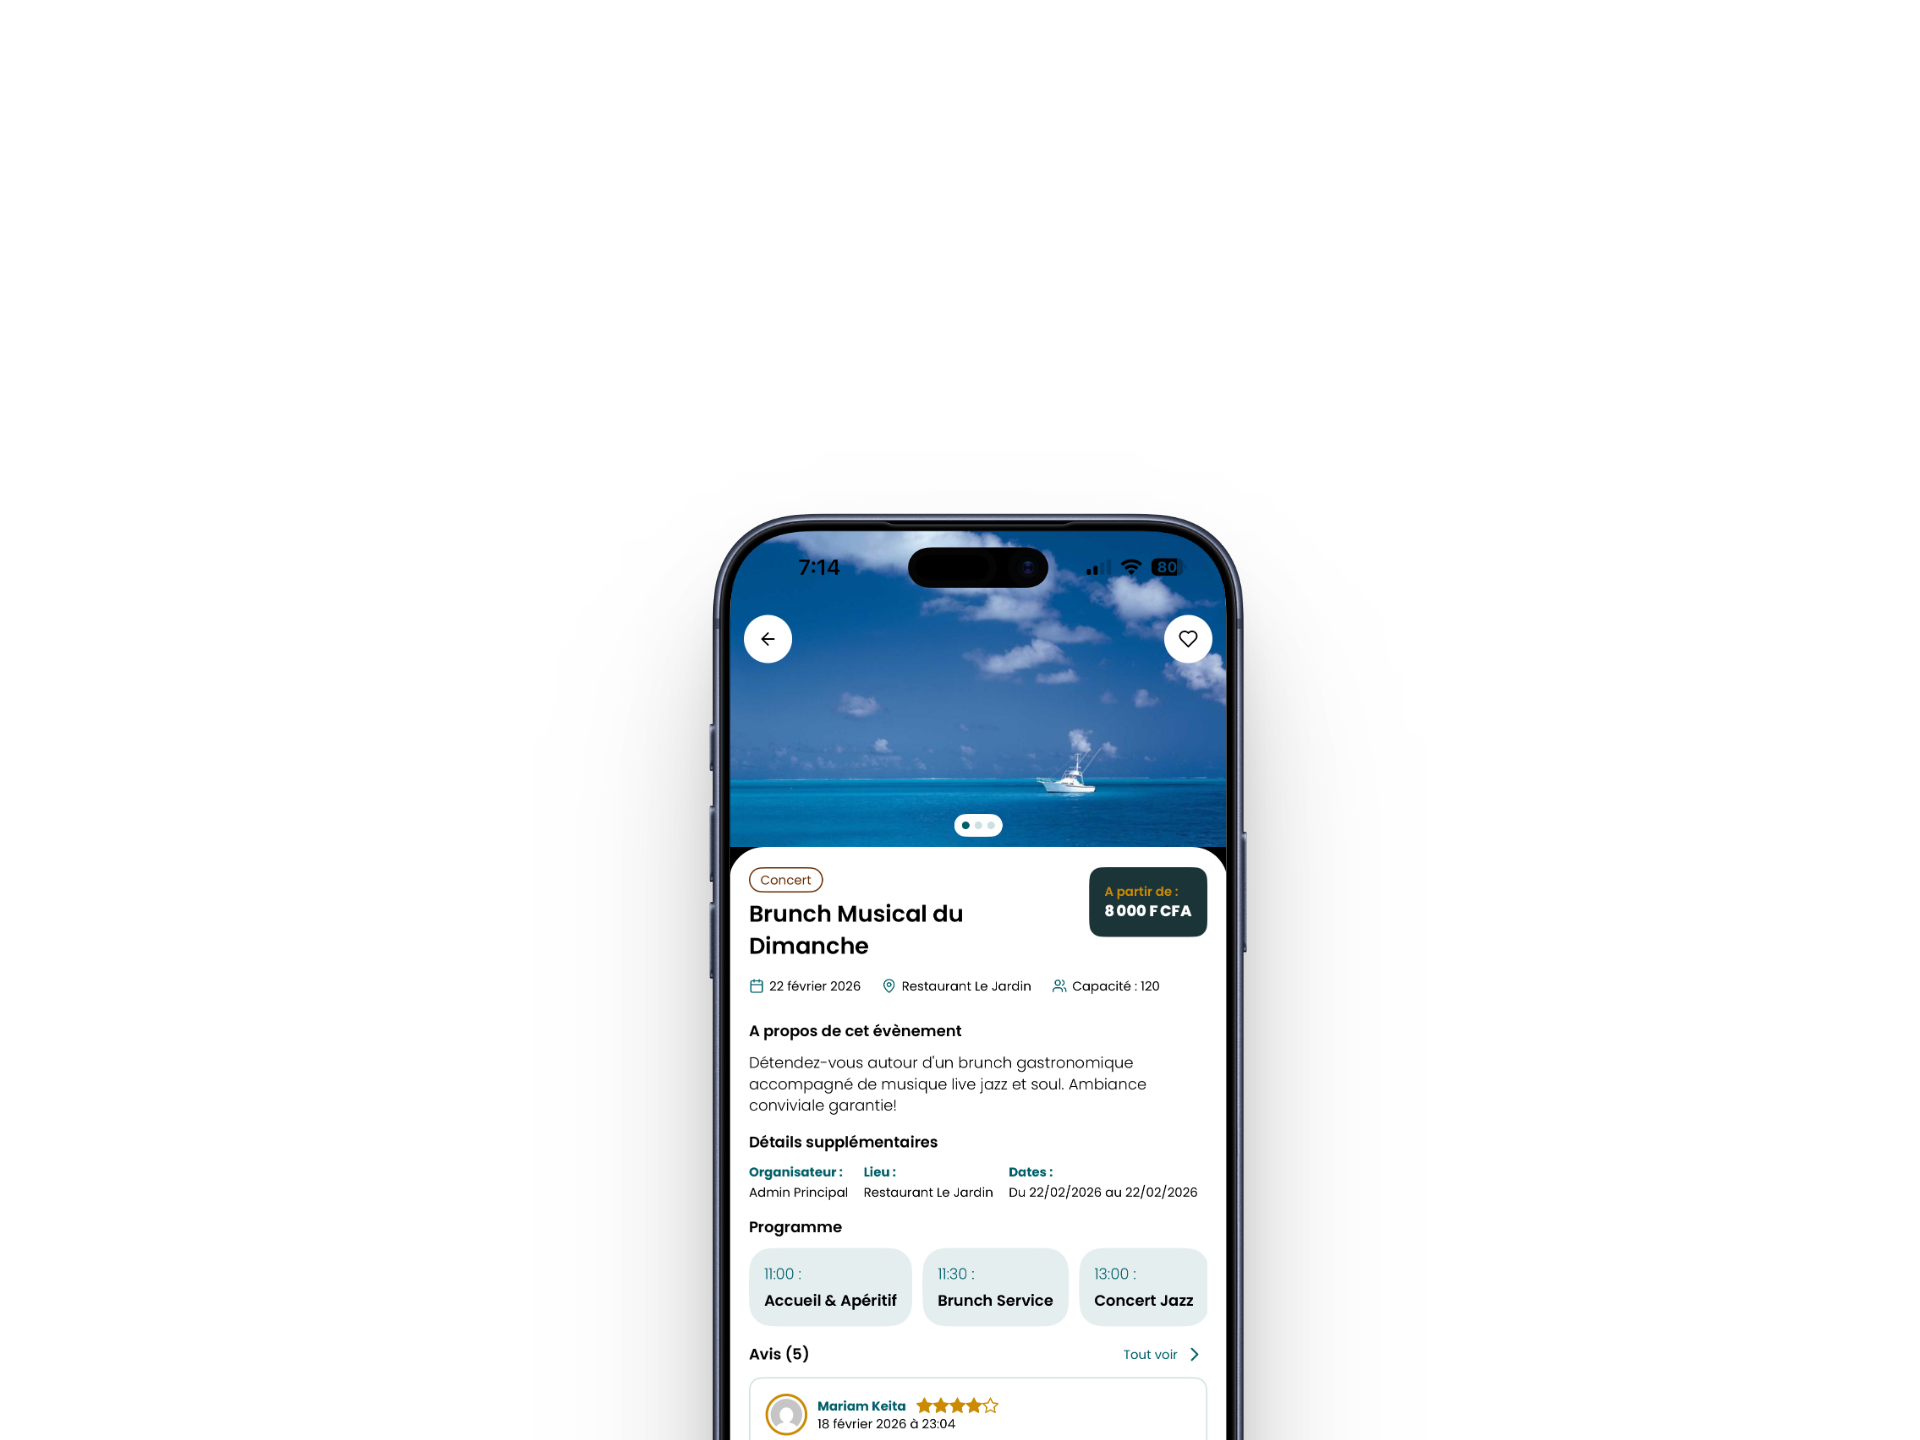
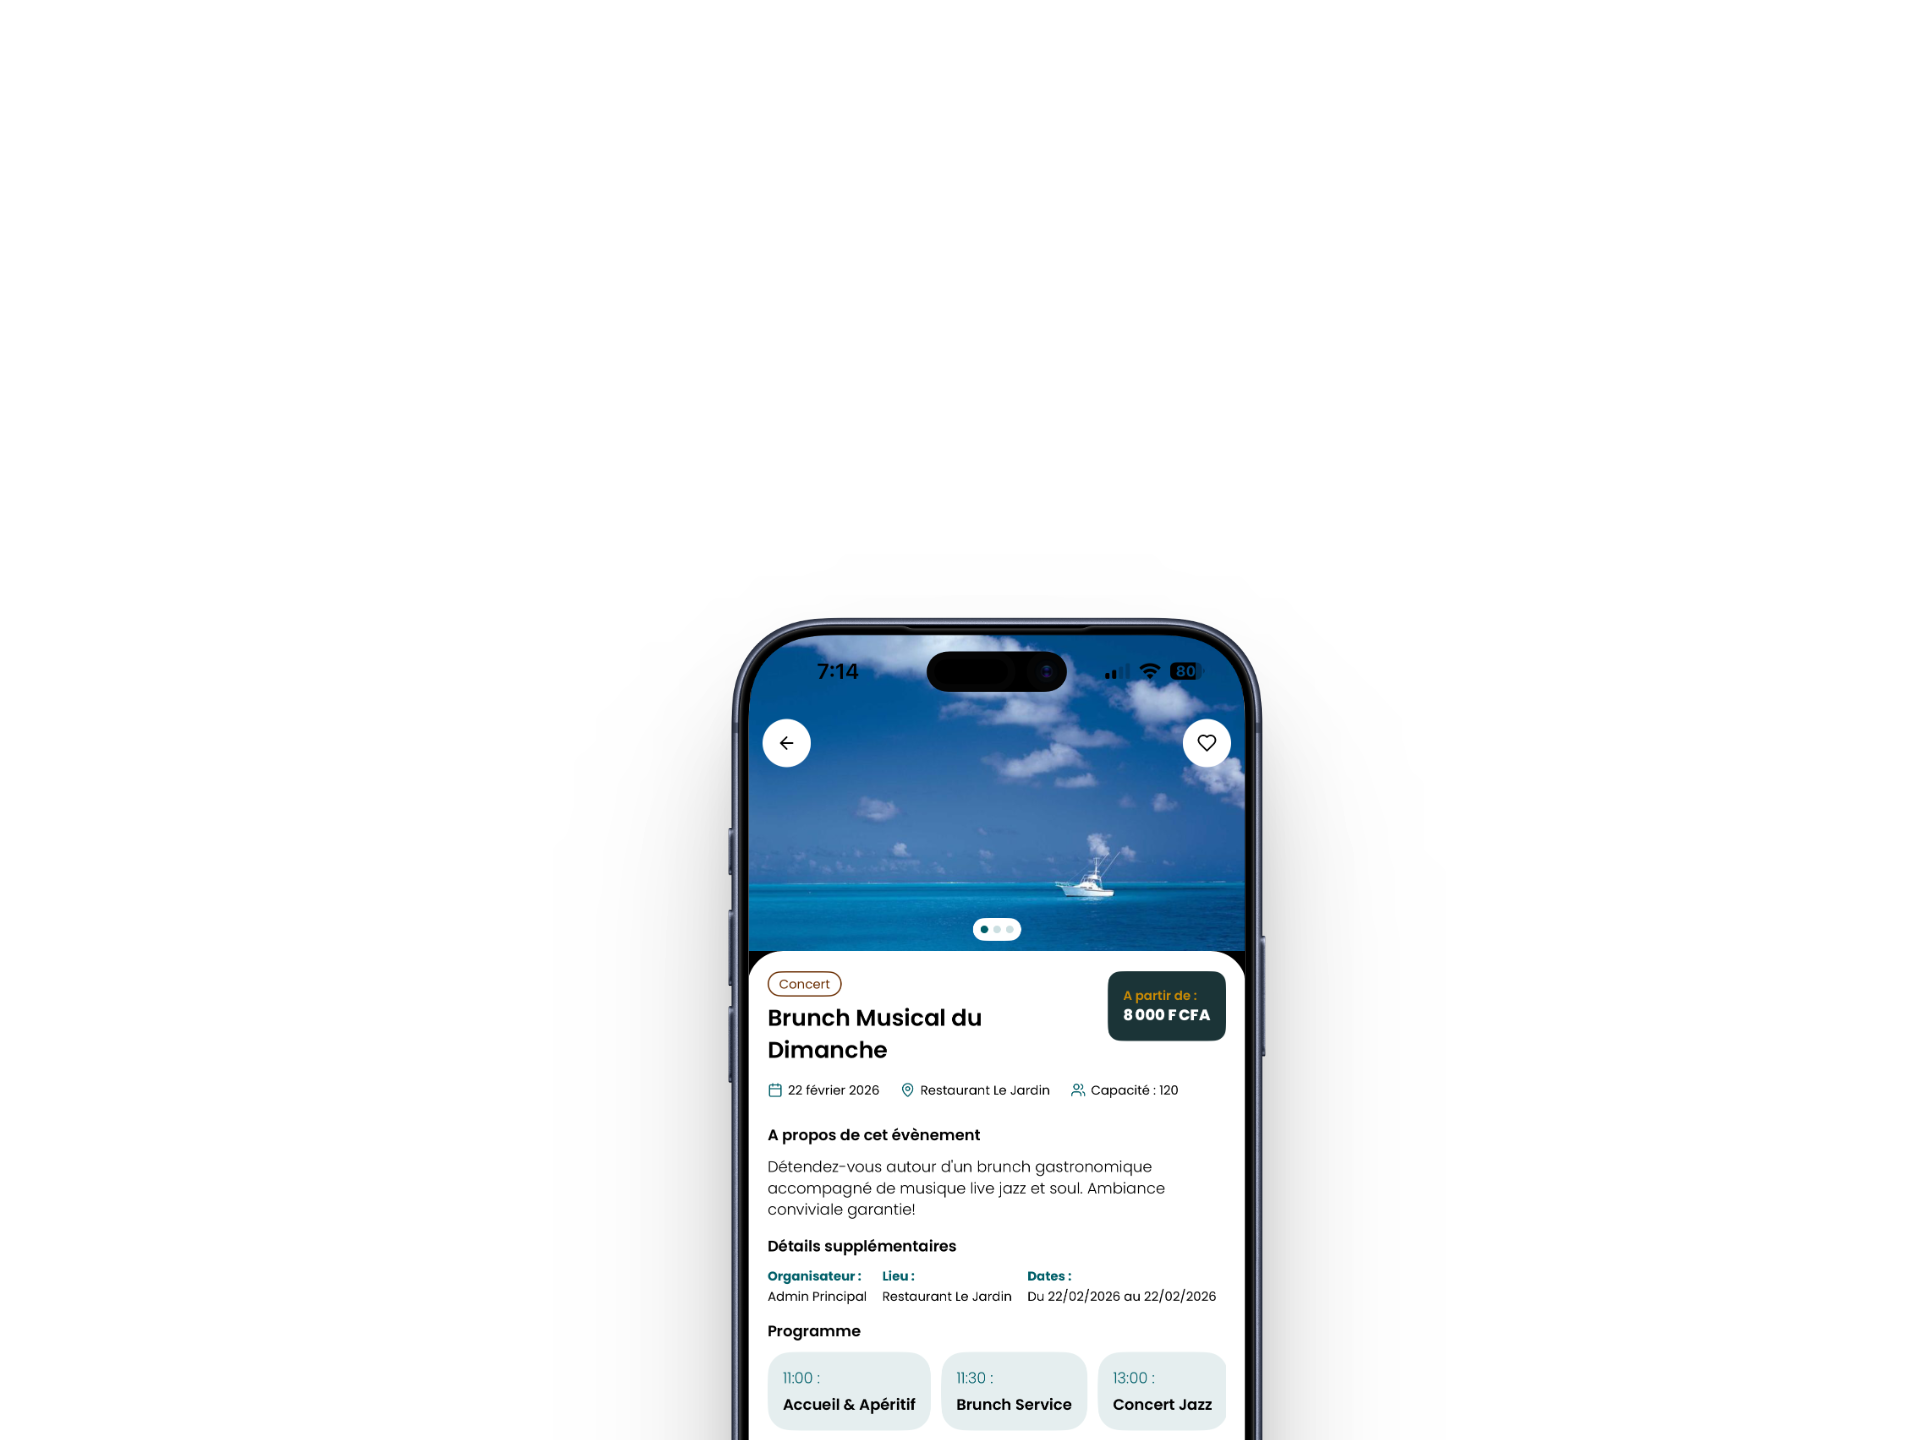
Emplacements

Changed region(s): [[0.3438, 0.3438, 0.6562, 1.0]]

diff --git a/src/components/Navigation/footer.jsx b/src/components/Navigation/footer.jsx
@@ -5,7 +5,7 @@ import Link from "next/link";
 import { usePathname } from "next/navigation";
 import {
   FacebookLogo,
-  InstagramLogo,
+  YoutubeLogo,
   LinkedinLogo,
 } from "@phosphor-icons/react";
 
@@ -44,11 +44,11 @@ export const Footer = () => {
     { label: "Mentions légales", href: "/mentions-legales" },
   ];
 
-  const socialLinks = [
-    { icon: FacebookLogo, href: "/", label: "Facebook" },
-    { icon: InstagramLogo, href: "/", label: "Instagram" },
-    { icon: LinkedinLogo, href: "/", label: "LinkedIn" },
-  ];
+ const socialLinks = [
+  { icon: FacebookLogo, href: "https://www.facebook.com/harnixsas", label: "Facebook" },
+  { icon: YoutubeLogo, href: "https://www.youtube.com/@harnixprod8479", label: "YouTube" },
+  { icon: LinkedinLogo, href: "https://www.linkedin.com/company/harnix/?originalSubdomain=bj", label: "LinkedIn" },
+];
 
   const appStoreLinks = [
     {

diff --git a/src/components/Home/EventsCarousel.jsx b/src/components/Home/EventsCarousel.jsx
@@ -155,10 +155,10 @@ const S = {
     background: "transparent",
   },
   inner: {
-    maxWidth: "1400px",
-    margin: "0 auto",
-    padding: "0 clamp(20px, 5vw, 72px)",
-  },
+  maxWidth: "90vw",
+  margin: "0 auto",
+  padding: "0 24px",
+},
   headerRow: {
     display: "flex",
     alignItems: "center",
